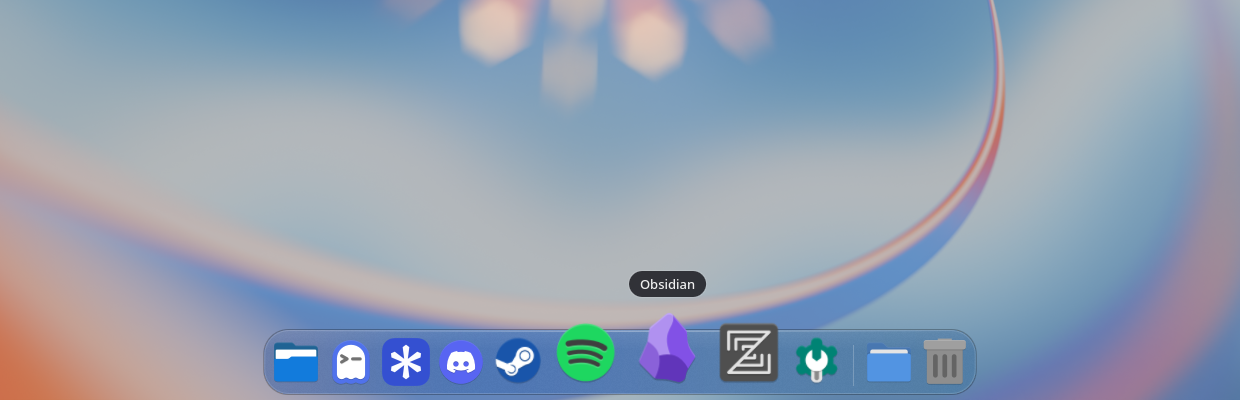
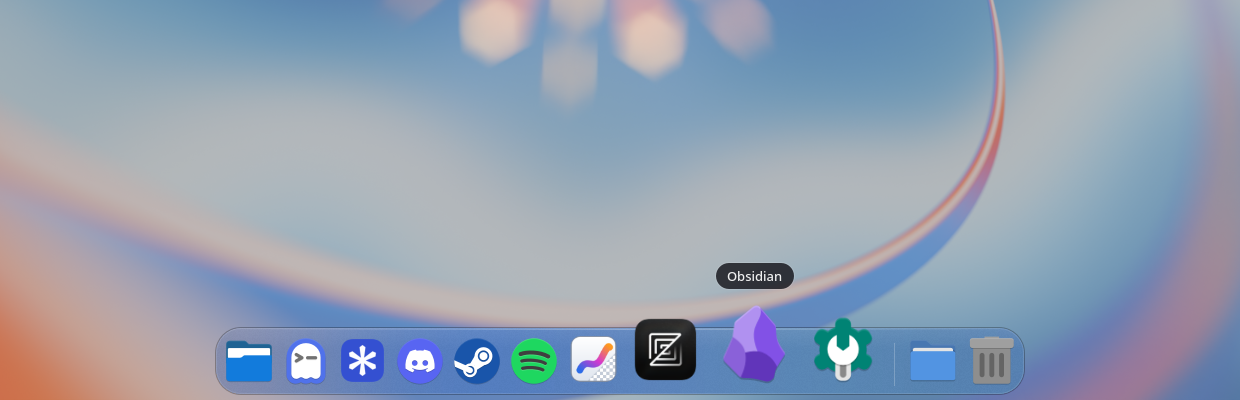
Retake the README screenshots; fill gaps in the README
- dock.png, stack-fan.png and menu.png retaken in the UI harness over the "Next"
  wallpaper, so they show today's dock: evened-out square icons, the dock staying
  magnified and the pressed icon darkened while a stack or menu is open
- Name the Configuration table's columns
- List the Vulkan headers for building on other distributions, and qdbus6 and
  kwriteconfig6 for the UI tests

Changed region(s): [[0.1532, 0.75, 0.8274, 0.99], [0.4903, 0.66, 0.6435, 0.75]]

diff --git a/README.md b/README.md
@@ -71,7 +71,7 @@ systemctl --user enable --now harbour.service
 
 ### Other distributions
 
-You'll need CMake, extra-cmake-modules, Qt 6 (Base, Declarative, Wayland, including the private development headers), KDE Frameworks 6 (Config, CoreAddons, GlobalAccel, KIO, Service, KCMUtils, Kirigami), layer-shell-qt, plasma-wayland-protocols, plasma-workspace and KWin's development files.
+You'll need CMake, extra-cmake-modules, Qt 6 (Base, Declarative, Wayland, including the private development headers), KDE Frameworks 6 (Config, CoreAddons, GlobalAccel, KIO, Service, KCMUtils, Kirigami), layer-shell-qt, plasma-wayland-protocols, plasma-workspace, KWin's development files and the Vulkan headers (KWin's headers include them).
 
 ```sh
 cmake -S . -B build -G Ninja -DCMAKE_BUILD_TYPE=RelWithDebInfo -DCMAKE_INSTALL_PREFIX=/usr
@@ -94,7 +94,7 @@ Pass `-DHARBOUR_BUILD_KWIN_EFFECT=OFF` to skip the Genie effect.
 
 Everything lives in **System Settings → Workspace → Dock**, and it's all stored in `~/.config/harbourrc`. The page covers:
 
-| | |
+| Section | Settings |
 |---|---|
 | **Look** | Icon size, magnification, glass, the same physical size on every screen |
 | **Behaviour** | Auto-hide, which screen to use, the minimise effect (Genie, Scale, Suck or KDE's own), indicators, bouncing on launch, evened-out square app icons, click-to-minimise |
@@ -120,7 +120,7 @@ systemctl --user stop harbour.service   # if the installed one is running
 ./build/bin/harbour
 ```
 
-The UI tests need `kwin_wayland`, `spectacle`, ImageMagick, Pillow and PyGObject with GTK 3. Each one starts a hidden KWin with its own D-Bus session and config, so it never touches your real desktop or cursor:
+The UI tests need `kwin_wayland`, `spectacle`, `qdbus6`, `kwriteconfig6`, ImageMagick, Pillow and PyGObject with GTK 3. Each one starts a hidden KWin with its own D-Bus session and config, so it never touches your real desktop or cursor:
 
 ```sh
 tests/ui/harness.sh tests/ui/t-switch.sh   # one-click menu switching

diff --git a/ROADMAP.md b/ROADMAP.md
@@ -459,6 +459,11 @@ https://github.com/MaxJW/harbour. Next: pinned folders in settings, then the ani
       changed it. t-hover, t-menuhold, t-anim pass.
 - [x] Tagged **v0.1.4** (2026-10-23; 0.1.4 in CMake and the PKGBUILD): icon theme changes apply without
       restarting the dock.
+- [x] README screenshots retaken (2026-10-23) so they match the current dock: evened-out square icons, the
+      user's current launchers, the dock staying magnified and the pressed icon darkened while a stack or menu is
+      open, and type icons in place of image previews. Same recipe as the originals: the harness over the "Next"
+      wallpaper (a frameless QML window, hidden from the dock with a KWin script), a made-up Downloads folder set
+      as the only fan stack, then rest → magnify Obsidian → open the fan → right-click Steam, cropped as before.
 - HDT autostart (user asked to stop it): it came from `~/Games/HDT/hdt-autostart.sh` in the Battle.net
   shortcut's Steam launch options; the user removed it there themselves. Outside the repo.
 - Spotify's label: the user's own override `~/.local/share/applications/spotify-launcher.desktop` (Name=Spotify),
